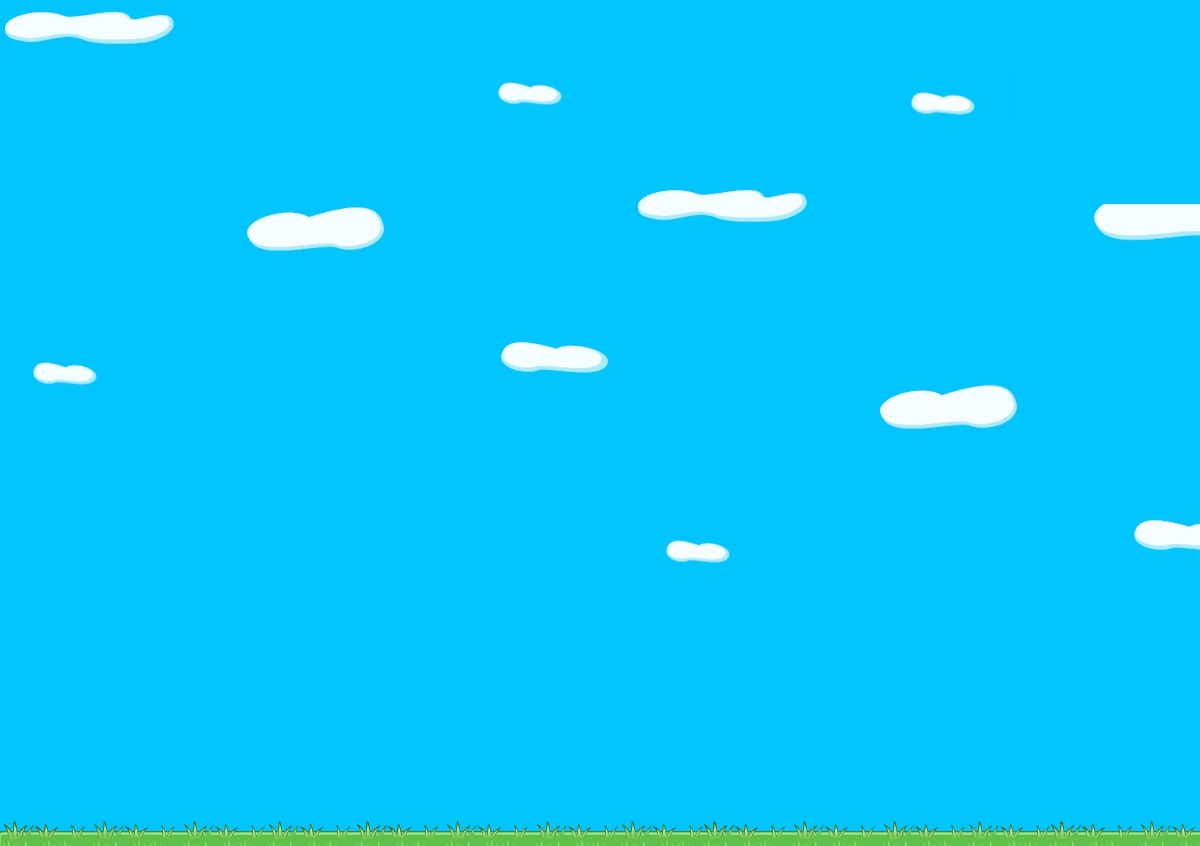
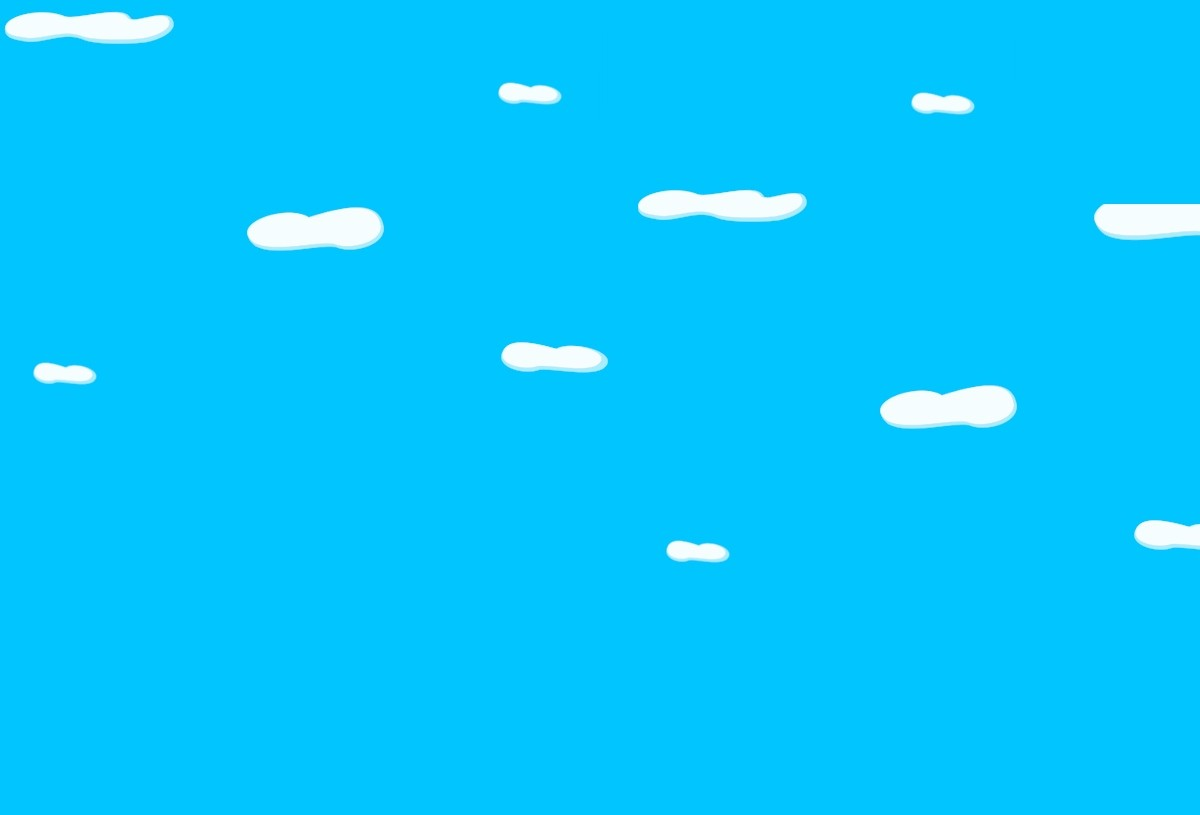
repeat background to fit display size

diff --git a/game.py b/game.py
@@ -71,6 +71,13 @@ class Game(scene.Scene):
     def _draw_background_and_map(self):
         "Imprime y actualiza el fondo de pantalla para usar dirtyrectagles mas adelante."
         self.background = common.load("background.jpg", False)
+        w, h = self.background.get_size()
+        surface = pygame.Surface(self.world.screen.get_size())
+        surface.blit(self.background, (0, 0))
+        surface.blit(self.background, (w, 0))
+        surface.blit(self.background, (0, h))
+        surface.blit(self.background, (w, h))
+        self.background = surface
         self.map.draw_over(self.background)
         self.world.screen.blit(self.background, (0, 0))
 

diff --git a/title.py b/title.py
@@ -17,6 +17,13 @@ class Title(scene.Scene):
         scene.Scene.__init__(self, world)
         self.sprites = group.Group()
         self.background = common.load("title_background.jpg", False)
+        w, h = self.background.get_size()
+        surface = pygame.Surface(self.world.screen.get_size())
+        surface.blit(self.background, (0, 0))
+        surface.blit(self.background, (w, 0))
+        surface.blit(self.background, (0, h))
+        surface.blit(self.background, (w, h))
+        self.background = surface
         self.title = title_sprite.TitleSprite()
         self.sprites.add(self.title)
         self.draw_background()

diff --git a/intro.py b/intro.py
@@ -25,7 +25,11 @@ class IntroAbstract(scene.Scene):
         self.must_interpolate = must_interpolate
 
     def draw_background(self, screen):
+        w, h = self.background.get_size()
         screen.blit(self.background, (0, 0))
+        screen.blit(self.background, (w, 0))
+        screen.blit(self.background, (0, h))
+        screen.blit(self.background, (w, h))
 
     def update(self):
         self.counter += 1
